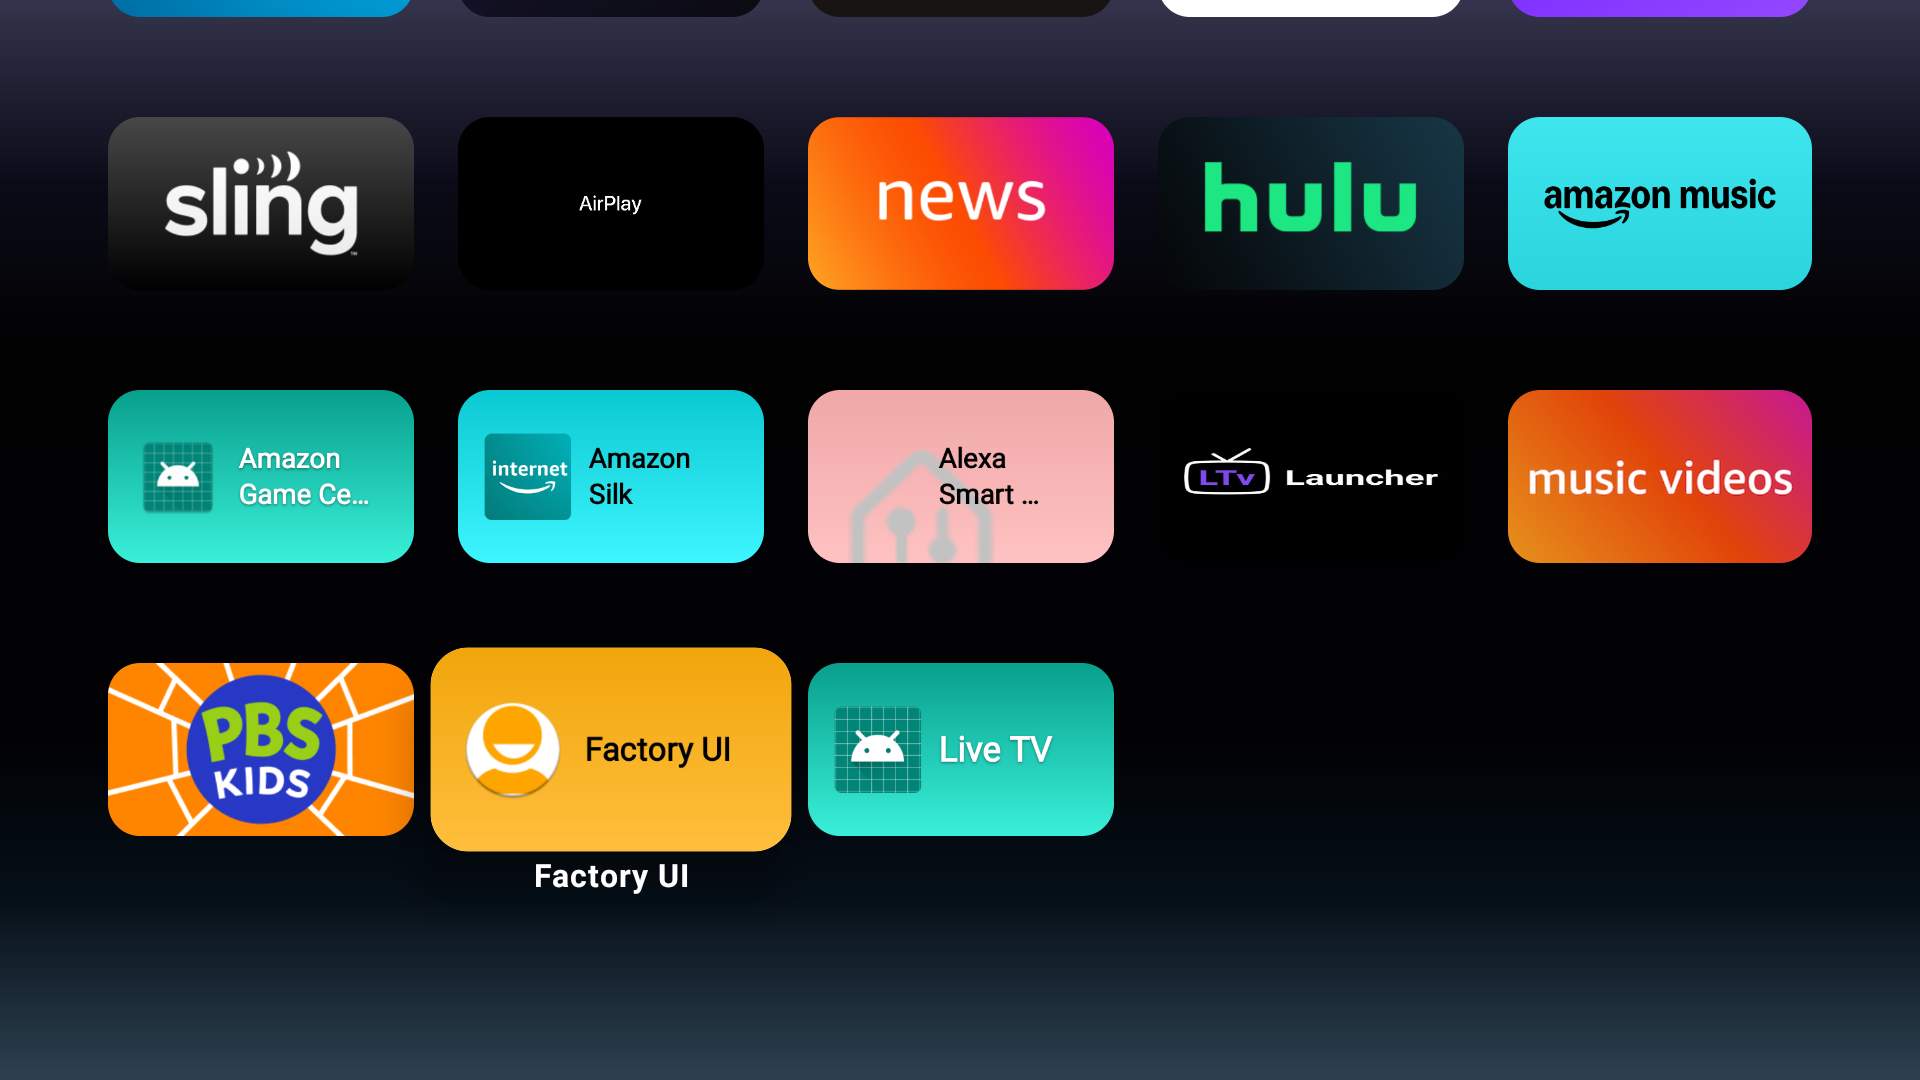
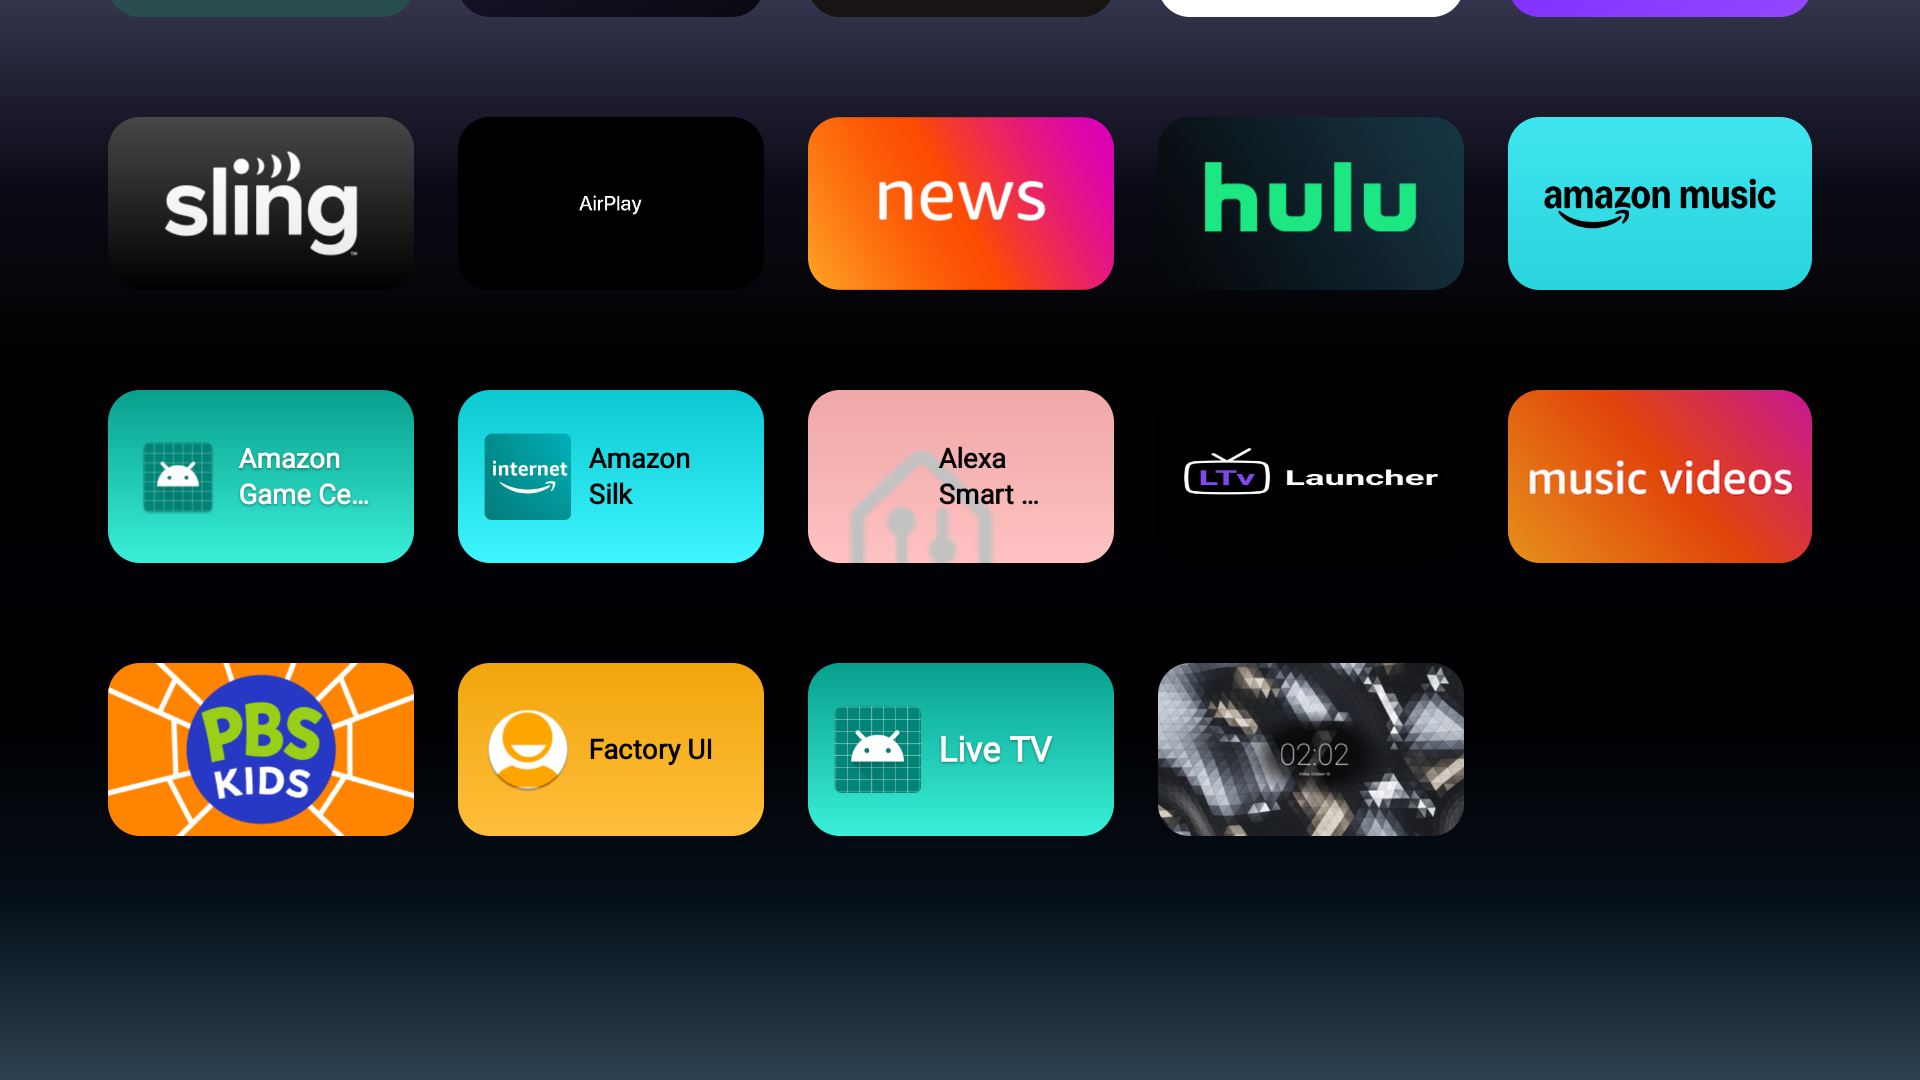
Record final physical update and Prism integration gates

Changed region(s): [[0.2188, 0.5806, 0.4375, 0.825], [0.5938, 0.6111, 0.7812, 0.7944], [0.0625, 0.0, 0.2188, 0.0306]]

diff --git a/docs/screenshots.md b/docs/screenshots.md
@@ -2,17 +2,22 @@
 
 ## Fire TV UI 1.4.0
 
-These unretouched captures are 1920x1080. Updates shows candidate `44057a7d` on Google TV API 34; the repeat build has all 631 app payload entries identical. Native tiles shows the earlier physical Fire TV API 30 candidate `2c1e7b74`, version 1.4.0/code 38, after the reviewed five-column layout was restored. It does not prove the later OwnTV asset fix or guard dump. Prism Clock is the accepted public v1.0.0 app running on physical Fire TV, reused as the bundled catalog sample; this image is not a screenshot of the UI's catalog row.
+These unretouched 1920x1080 captures show signed candidate `44057a7d` on physical Fire TV AFTDEC012E, Android 11/API 30. The repeated source build has all 631 app payload entries identical. The update check found the exact published OwnTV 5.2.1 TV APK and checksum. The native catalog installed accepted Prism Clock 1.0.0 through Android confirmation; installed APK bytes and signer were independently verified. Its picker row shows the bundled physical screenshot. The row capture shows the UI, while the separate settled Dream capture and binder record establish actual Prism rendering.
 
 <table>
 <tr>
-<td><img src="../art/screenshots/updates-ui-1.4.0-api34-1920.png" alt="Fire TV UI 1.4.0 checked release status and private computer-sign-in requirement"><br>Updates, API 34</td>
-<td><img src="../art/screenshots/native-tiles-ui-1.4.0-fire-tv-1920.png" alt="Physical Fire TV UI 1.4.0 Factory UI and native Live TV tiles"><br>Native TV tiles, Fire OS 30</td>
-<td><img src="../art/screenshots/prism-clock-fire-tv-silver-1920.png" alt="Prism Clock 1.0.0 silver physical preview bundled in UI 1.4.0"><br>Accepted Prism catalog sample</td>
+<td><img src="../art/screenshots/home-ui-1.4.0-fire-tv-1920.png" alt="Physical Fire TV UI 1.4.0 five-column launcher with preserved original app order"><br>Home</td>
+<td><img src="../art/screenshots/updates-ui-1.4.0-fire-tv-1920.png" alt="OwnTV 5.2.1 checked exact TV APK and matching published checksum"><br>Updates</td>
+<td><img src="../art/screenshots/prism-picker-ui-1.4.0-fire-tv-1920.png" alt="Installed Prism Clock row and bundled native screenshot in UI 1.4.0"><br>Prism picker</td>
+</tr>
+<tr>
+<td><img src="../art/screenshots/native-tiles-ui-1.4.0-fire-tv-1920.png" alt="Current UI 1.4.0 native Factory UI and Live TV tiles on physical Fire TV"><br>TV tiles</td>
+<td><img src="../art/screenshots/prism-dream-ui-1.4.0-fire-tv-1920.png" alt="Actual Prism Clock Dream launched through the UI Preview it action"><br>Prism Dream</td>
+<td><img src="../art/screenshots/updates-ui-1.4.0-api34-1920.png" alt="UI 1.4.0 emulator update check distinguishes private sign-in and newer unpublished test builds"><br>API 34 check</td>
 </tr>
 </table>
 
-The update check correctly labels installed emulator test builds newer than their published stable releases. This does not register those unpublished builds as downloadable releases. Physical hardware Home, current OwnTV and guard inspection, and the new Prism catalog row remain separately tracked gates. No change in those results is inferred from these screenshots.
+Back restored the selected Aquarium Dream. All 46 UI preferences and eight recorded OS settings read back unchanged; the external backup, live guard and VPN were preserved. Home from the settings route returned to the UI. A single Factory tile tap then opened actual Amazon Home for the physical-remote follow-up. That hardware Home check remains unverified; no shell-injected key is treated as equivalent proof. Unpublished emulator builds remain separate from downloadable stable catalog releases.
 
 ## Historical selected-idle candidate checks
 

diff --git a/docs/verification.md b/docs/verification.md
@@ -178,3 +178,11 @@ This check also found OwnTV's version-specific multi-APK asset ambiguity. The su
[1 lines of base64/hex data omitted]
 
 The private GitHub README and full gallery were reviewed in authenticated Chrome at 1280 and 320 pixels. All three README images and all 30 gallery images loaded at their native 1920-pixel width. The current row was viewed at both widths, and the earlier native gallery was inspected at desktop width. Historical captions that caused narrow-table clipping were shortened; every image then remained within the 320-pixel page. The viewport was reset and the owned tab closed. No account or media preferences changed. Current captures identify the 44057 update check, earlier 2c1 physical native tiles, and accepted Prism physical catalog sample separately. These documentation results do not establish the still-pending hardware Home, OwnTV, guard-dump or Prism catalog-row gates.
+
+## Final 1.4.0 physical functional check
+
[1 lines of base64/hex data omitted]
+
[1 lines of base64/hex data omitted]
+
+Back restored Aquarium with preview_pending=false. All 46 exported UI preferences and eight OS settings compared exactly equal afterward. The previous external backup was restored; the live guard and VPN remained present. Normal Home reached Main. A final single Factory UI tile tap opened actual AmazonHome_vNext for the physical-remote follow-up, and the device lease was returned. That hardware-key check remains unverified. The frozen APK is the release artifact; a verified primary rebuild must match all 631 runtime payload entries before its tag is published. This result does not approve rejected screensaver visuals or establish every remaining screensaver requirement as complete.

diff --git a/docs/releases/v1.4.0.md b/docs/releases/v1.4.0.md
@@ -43,7 +43,7 @@ Downloads are user initiated. No background update polling or analytics is added
 
 Local signed build and 29 tests complete: 23 host tests pass and six explicitly configured native tests are skipped. Native Fire OS testing installed the public Fire IPTV v1.1.1 through the UI and Android confirmation, independently verified the installed APK/signer, retained the observable channel catalog and PiP-off setting, and preserved 46 UI preferences and eight OS values. Fresh defaults and existing-install preservation were checked separately on API 34.
 
-Final current-build physical Home, OwnTV, guard-dump and Prism-catalog checks, refreshed screenshots and primary-build artifact verification remain release gates. This document is release preparation, not a publication claim. Third-party checker work is deferred at the user's request.
+The final frozen `44057a7d` candidate also passed physical OwnTV 5.2.1 exact-asset checking, the running settings-guard report, and the 31st Prism catalog entry, public installation, native picker thumbnail and actual bound Dream preview. Back restored Aquarium; all 46 UI preferences and eight OS values read back unchanged, with the external backup, live guard and VPN retained. Normal Home returned to Main. A hardware remote Home press from intentional Factory UI remains unverified and is documented as a platform limitation. Third-party checker work is deferred at the user's request.
 
 ## Known limitations
 
@@ -54,3 +54,10 @@ Home behavior depends on actual platform accessibility delivery. Shell-injected 
 Android prevents installing a lower version code over this release. Save a backup before an intentional uninstall, then install the previous signed APK and restore the backup. Uninstalling clears private app data and requires setup again. Independently installed screensavers remain installed. A backup cannot transfer another TV's accounts or device-local remote identity.
 
 [Compare v1.3.2 to v1.4.0](https://github.com/jeremykenedy/fire-tv-ui/compare/v1.3.2...v1.4.0)
+
+## Release artifacts
+
[2 lines of base64/hex data omitted]
+
+The released APK is the exact frozen physical-tested artifact. Its 631 runtime payload entries must match the verified primary build. The optional shared-icon ZIP and both SHA-256 sidecars are included separately. The repository and all release assets remain private.

diff --git a/docs/factory-home.md b/docs/factory-home.md
@@ -4,7 +4,7 @@ On Fire TVs with an exported Amazon system HOME activity, **Factory UI** appears
 
 Opening the tile does not disable Fire TV UI's Home setting. A temporary launch bypass lets the initial Amazon Home transition settle. A delivered Home key clears the bypass; where Fire OS does not deliver that key to accessibility, the next distinct Home transition restores normal redirection. The bypass is held only in process memory and expires automatically. It is not exported in backups.
 
-Host regressions cover explicit native resolution, duplicate tile suppression, missing/non-system activities, the initial transition burst and subsequent Home routing. On the new physical Fire TV, the animated tile opened the fully rendered Amazon Home screen. Home from another app returned to Fire TV UI. A shell-injected Home press while already on Amazon Home did not produce another Home window transition and did not return to Fire TV UI. The equivalent physical remote check remains a release gate.
+Host regressions cover explicit native resolution, duplicate tile suppression, missing/non-system activities, the initial transition burst and subsequent Home routing. On the new physical Fire TV, the animated tile opened the fully rendered Amazon Home screen. Home from another app returned to Fire TV UI. A shell-injected Home press while already on Amazon Home did not produce another Home window transition and did not return to Fire TV UI. The equivalent physical remote check remains unverified; shell injection is not treated as hardware proof.
 
 Android 11's [input dispatcher](https://android.googlesource.com/platform/frameworks/native/+/refs/heads/android11-release/services/inputflinger/dispatcher/InputDispatcher.cpp) sends hardware keys through its enabled input filter. Its injected-key path does not call that filter. Consequently, `adb shell input keyevent 3` cannot verify the launcher's existing accessibility hardware Home handler. With better Home detection enabled, that handler requests key filtering and opens Fire TV UI on Home release. Actual remote delivery remains platform dependent and needs a hardware-path check.
 

diff --git a/README.md b/README.md
@@ -136,13 +136,13 @@ Copy `skills/add-fire-tv-screensaver/` into `~/.codex/skills/` to install it loc
 
 ## Screenshots
 
-Fire TV UI 1.4.0 native update checks, the physical five-column launcher with native TV tiles, and the accepted Prism Clock catalog sample. The [full gallery](docs/screenshots.md) records exact capture builds and separates historical evidence. Physical hardware Home verification remains a release gate.
+Fire TV UI 1.4.0 running on physical Fire TV: the preserved five-column launcher, an exact published OwnTV update check, and the installed Prism Clock preview row. The [full gallery](docs/screenshots.md) records exact capture builds and separates historical evidence. The separate physical remote Home check remains unverified.
 
 <table>
   <tr>
-    <td><img src="art/screenshots/updates-ui-1.4.0-api34-1920.png" alt="Fire TV UI 1.4.0 Updates reporting private sign-in requirements and checked stable versions"><br>Verified app updates</td>
-    <td><img src="art/screenshots/native-tiles-ui-1.4.0-fire-tv-1920.png" alt="Fire TV UI 1.4.0 five-column physical launcher with Factory UI and native Live TV tiles"><br>Native TV tiles</td>
-    <td><img src="art/screenshots/prism-clock-fire-tv-silver-1920.png" alt="Accepted Prism Clock 1.0.0 physical preview bundled with Fire TV UI 1.4.0"><br>Prism Clock catalog sample</td>
+    <td><img src="art/screenshots/home-ui-1.4.0-fire-tv-1920.png" alt="Fire TV UI 1.4.0 physical five-column launcher retaining its app order"><br>Five-column Home</td>
+    <td><img src="art/screenshots/updates-ui-1.4.0-fire-tv-1920.png" alt="Fire TV UI 1.4.0 checking the exact OwnTV 5.2.1 stable TV APK and checksum"><br>Verified updates</td>
+    <td><img src="art/screenshots/prism-picker-ui-1.4.0-fire-tv-1920.png" alt="Fire TV UI 1.4.0 installed Prism Clock row with its native screenshot preview"><br>Prism Clock preview</td>
   </tr>
 </table>
 
